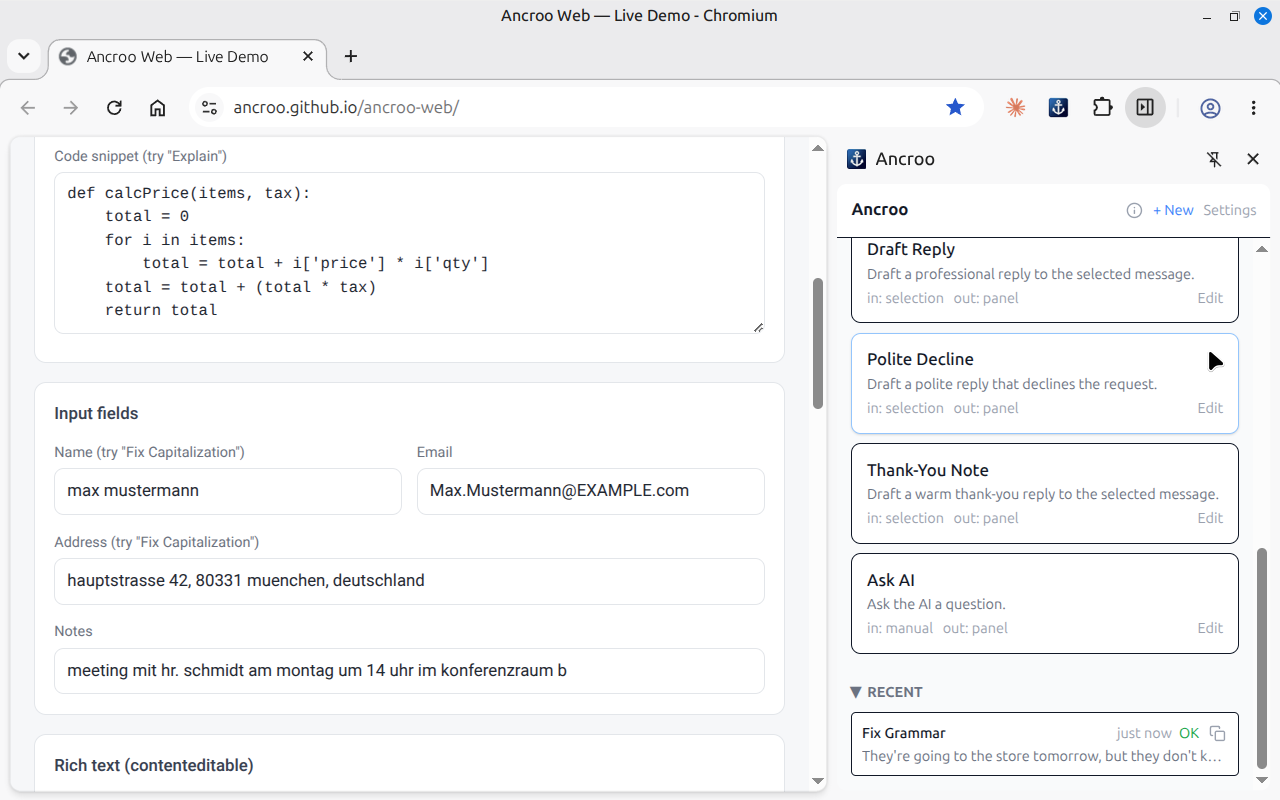
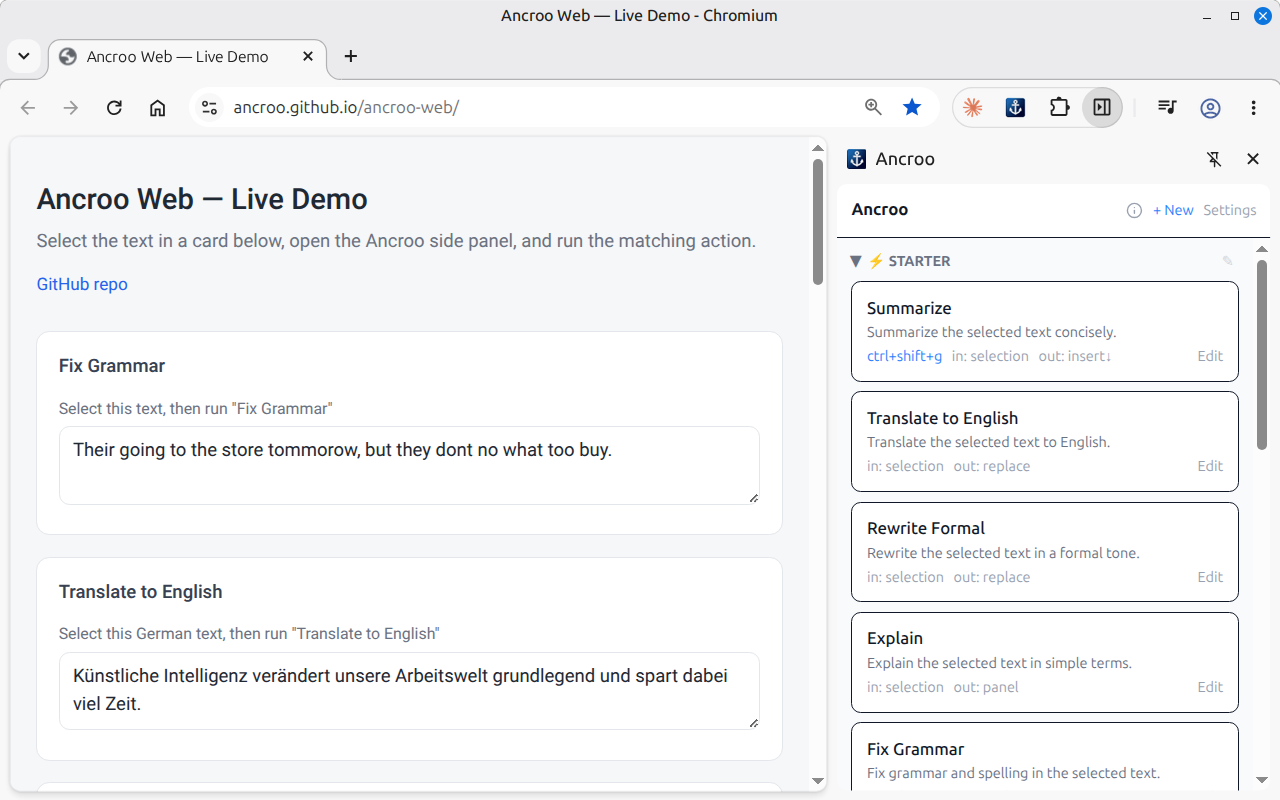
docs: refresh screenshots and rename main README image
Update screenshots, replace main.png with ancroo.png as the README hero
image, and ignore the youtube/ working directory.

🤖 Generated with [Claude Code](https://claude.com/claude-code)

diff --git a/README.md b/README.md
@@ -15,7 +15,7 @@ AI Prompt Launcher for your Browser. Point at anything on a page, run an AI prom
 
 Manifest V3 browser extension built with Preact and TypeScript. Calls LLM providers directly — no server or account needed.
 
-![Ancroo](assets/screenshots/main.png)
+![Ancroo](assets/screenshots/ancroo.png)
 
 ## Features
 
